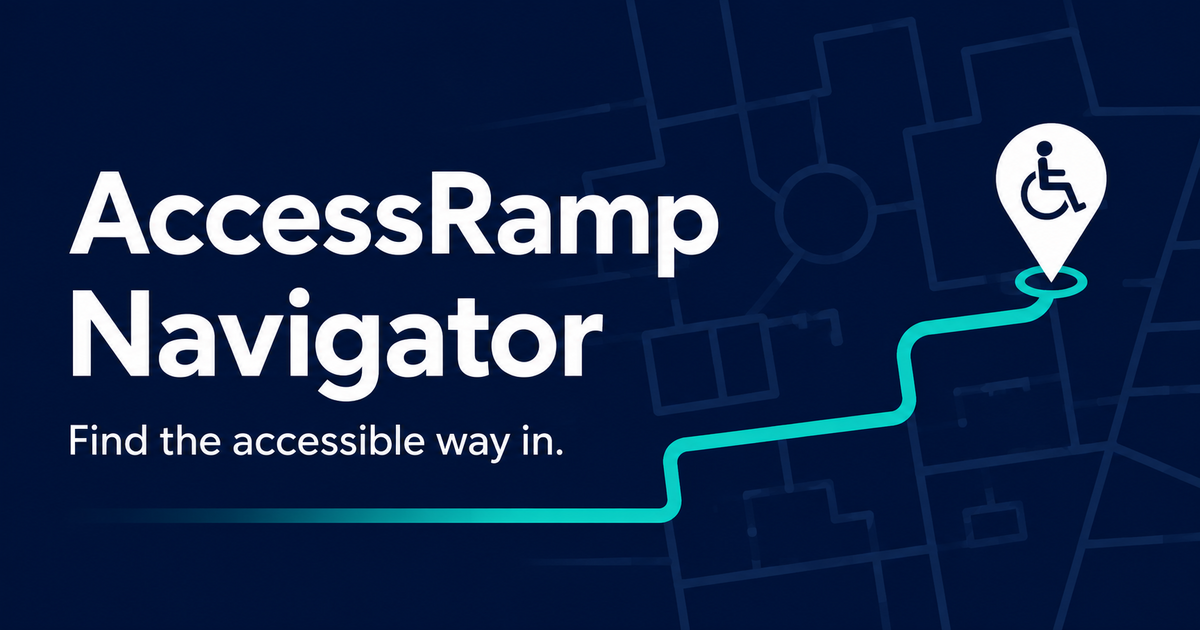
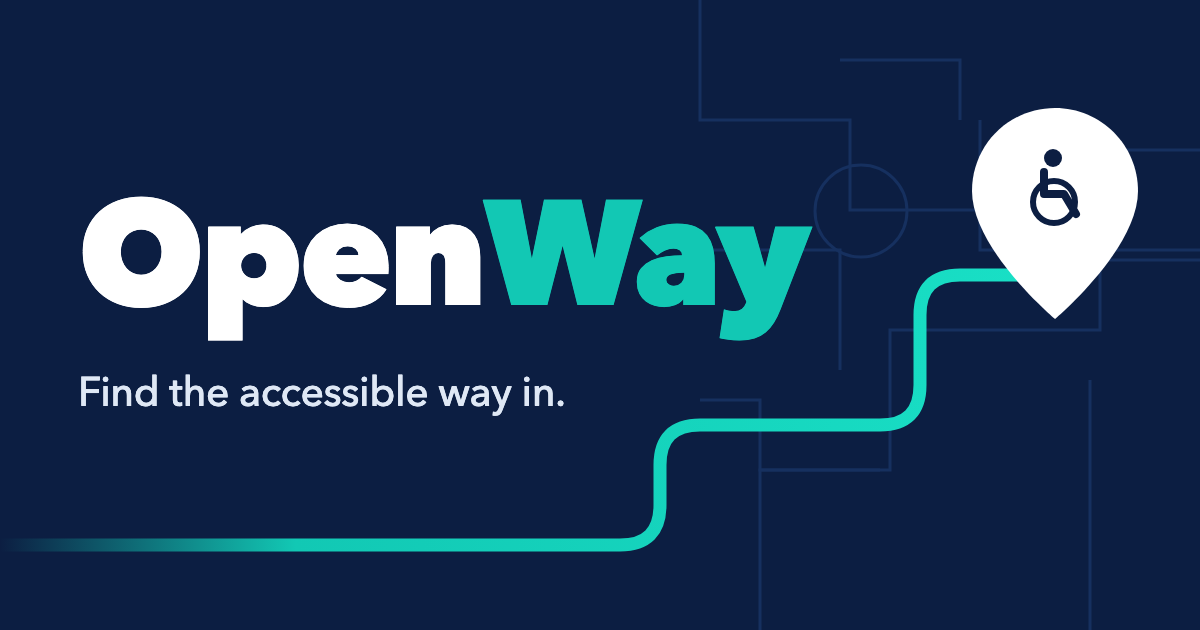
Rename the project to OpenWay
- Wordmark, page title, Open Graph and Twitter metadata, and the account
  modal's label.
- The npm package name and displayName.
- The User-Agent sent to Overpass and the routing service, which identifies us
  to two free services and should say who we actually are.
- The empty-state line about the gap the product exists to close.
- Both READMEs.

Regenerated public/og.png, which had the old name set in 1200x630 pixels. The
new one keeps the original layout and colours, with the same split-colour
wordmark the app uses. It is also a tenth of the size.

The session cookie becomes ow_session. Anyone signed in when this lands signs
in again; the session rows themselves are untouched.

metadataBase pointed at a chatgpt.site subdomain left over from the scaffold.
It is now a documentation placeholder with a comment, since there is no
deployment origin yet.

The access-ramp-navigator directory keeps its name. Renaming it would break
every teammate's working copy and running dev server mid-hackathon, for no
user-visible gain; worth doing as its own change when nobody is mid-flight.

Verified: no occurrence of the old name in the served HTML, and auth still
works end to end under the new cookie, with the old one correctly rejected.
Responsive sweep unchanged at 390x844 and 1440x900.

diff --git a/access-ramp-navigator/app/page.tsx b/access-ramp-navigator/app/page.tsx
@@ -709,9 +709,9 @@ export default function Home() {
   return (
     <main className="app-shell">
       <header className="topbar">
-        <a className="brand" href="#top" aria-label="AccessRamp home">
+        <a className="brand" href="#top" aria-label="OpenWay home">
           <span className="brand-mark">♿</span>
-          <span>Access<span>Ramp</span></span>
+          <span>Open<span>Way</span></span>
         </a>
         <div className="topbar-account">
           <AccountControls
@@ -1070,7 +1070,7 @@ export default function Home() {
           <section className="contribution-modal auth-modal" role="dialog" aria-modal="true" aria-labelledby="auth-title">
             <div className="modal-header">
               <div>
-                <span className="detail-type">ACCESSRAMP ACCOUNT</span>
+                <span className="detail-type">OPENWAY ACCOUNT</span>
                 <h2 id="auth-title">{authMode === "signin" ? "Sign in" : "Create an account"}</h2>
                 <p>
                   {authMode === "signin"
@@ -1243,7 +1243,7 @@ function OsmSections({ building, onContribute, reportCount }: { building: MapBui
           {building.address ? ` and address (${building.address})` : ""}, but nothing about entrances, ramps, toilets or lifts.
         </p>
         <p className="gap-note">
-          This is exactly the gap AccessRamp exists to close. {reportCount > 0 ? `${reportCount} community report${reportCount > 1 ? "s" : ""} already added.` : "Be the first to add a detail."}
+          This is exactly the gap OpenWay exists to close. {reportCount > 0 ? `${reportCount} community report${reportCount > 1 ? "s" : ""} already added.` : "Be the first to add a detail."}
         </p>
         <button type="button" className="primary-action full" onClick={onContribute}>＋ Add the first detail</button>
       </section>

diff --git a/access-ramp-navigator/app/layout.tsx b/access-ramp-navigator/app/layout.tsx
@@ -2,21 +2,24 @@ import type { Metadata } from "next";
 import "leaflet/dist/leaflet.css";
 import "./globals.css";
 
+/** Replace with the real origin when this is deployed somewhere. */
+const SITE_URL = "https://openway.example.com";
+
 export const metadata: Metadata = {
-  metadataBase: new URL("https://access-ramp-navigator.awakenedaphid.chatgpt.site"),
-  title: "AccessRamp Navigator",
+  metadataBase: new URL(SITE_URL),
+  title: "OpenWay",
   description: "Detailed building accessibility profiles covering entrances, ramps, toilets, lifts, parking, routes and community reports.",
   openGraph: {
-    title: "AccessRamp Navigator",
+    title: "OpenWay",
     description: "Know the entrance, ramp, toilet, lift and route before you arrive.",
-    url: "https://access-ramp-navigator.awakenedaphid.chatgpt.site",
-    siteName: "AccessRamp Navigator",
-    images: [{ url: "/og.png", width: 1200, height: 630, alt: "AccessRamp Navigator accessible navigation map" }],
+    url: SITE_URL,
+    siteName: "OpenWay",
+    images: [{ url: "/og.png", width: 1200, height: 630, alt: "OpenWay — find the accessible way in" }],
     type: "website",
   },
   twitter: {
     card: "summary_large_image",
-    title: "AccessRamp Navigator",
+    title: "OpenWay",
     description: "Know the entrance, ramp, toilet, lift and route before you arrive.",
     images: ["/og.png"],
   },

diff --git a/access-ramp-navigator/lib/auth.ts b/access-ramp-navigator/lib/auth.ts
@@ -13,7 +13,7 @@ import { sessions, users } from "../db/schema";
 
 export type SessionUser = { id: number; email: string; displayName: string };
 
-const SESSION_COOKIE = "ar_session";
+const SESSION_COOKIE = "ow_session";
 const SESSION_DAYS = 30;
 const PBKDF2_ITERATIONS = 100_000;
 
@@ -77,7 +77,7 @@ export async function destroySession(token: string): Promise<void> {
 
 export function readSessionToken(request: Request): string | null {
   const header = request.headers.get("cookie") ?? "";
-  const match = header.match(/(?:^|;\s*)ar_session=([^;]+)/);
+  const match = header.match(/(?:^|;\s*)ow_session=([^;]+)/);
   return match ? match[1] : null;
 }
 

diff --git a/access-ramp-navigator/lib/routing.ts b/access-ramp-navigator/lib/routing.ts
@@ -66,7 +66,7 @@ export async function fetchWalkingRoute(from: LatLng, to: LatLng): Promise<Walki
   const coords = `${from[1]},${from[0]};${to[1]},${to[0]}`;
   const url = `${OSRM_FOOT_ENDPOINT}/${coords}?overview=full&geometries=geojson&steps=true`;
 
-  const response = await fetch(url, { headers: { "User-Agent": "AccessRampNavigator/0.1 (accessibility mapping prototype)" } });
+  const response = await fetch(url, { headers: { "User-Agent": "OpenWay/0.1 (accessibility mapping prototype)" } });
   if (!response.ok) return null;
 
   const payload = (await response.json()) as OsrmResponse;

diff --git a/access-ramp-navigator/lib/osm.ts b/access-ramp-navigator/lib/osm.ts
@@ -112,7 +112,7 @@ export async function fetchOverpass(bbox: BBox): Promise<OverpassElement[]> {
         headers: {
           "Content-Type": "application/x-www-form-urlencoded",
           // Overpass asks that clients identify themselves.
-          "User-Agent": "AccessRampNavigator/0.1 (accessibility mapping prototype)",
+          "User-Agent": "OpenWay/0.1 (accessibility mapping prototype)",
         },
       });
       if (!response.ok) {

diff --git a/README.md b/README.md
@@ -1,4 +1,4 @@
-# Code Network Hackathon — AccessRamp Navigator
+# Code Network Hackathon — OpenWay
 
 A responsive web app that provides far more detailed building accessibility
 information than general mapping services: which side the ramp is on, what level

diff --git a/access-ramp-navigator/README.md b/access-ramp-navigator/README.md
@@ -1,4 +1,4 @@
-# AccessRamp Navigator
+# OpenWay
 
 Detailed building accessibility information for every building on the map — not
 just the handful someone has surveyed.
